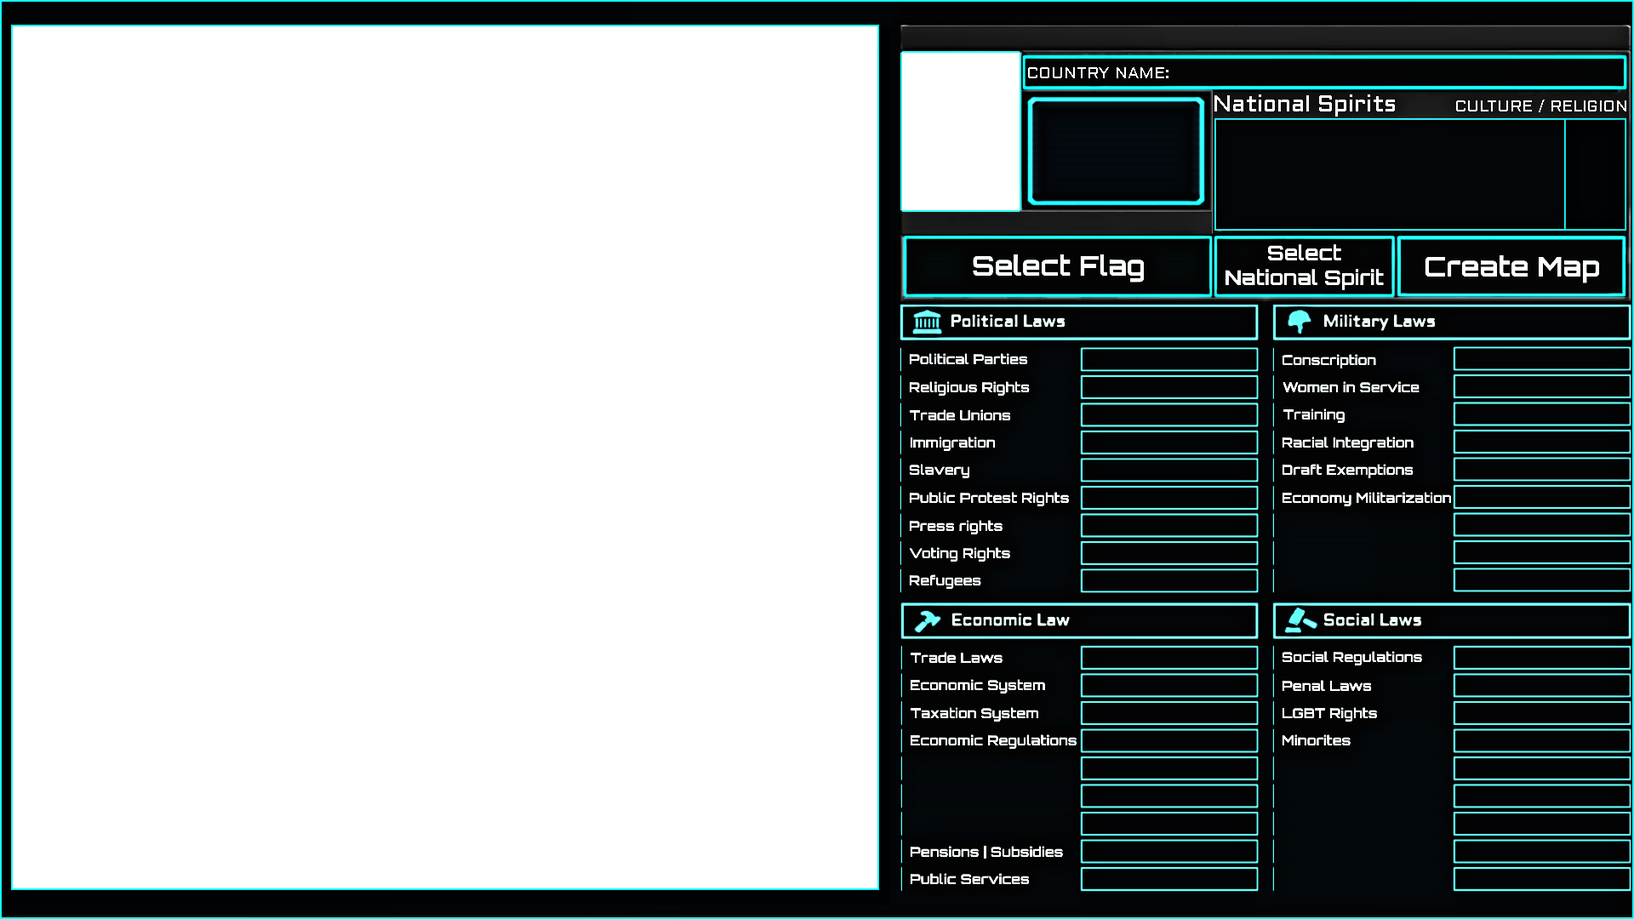
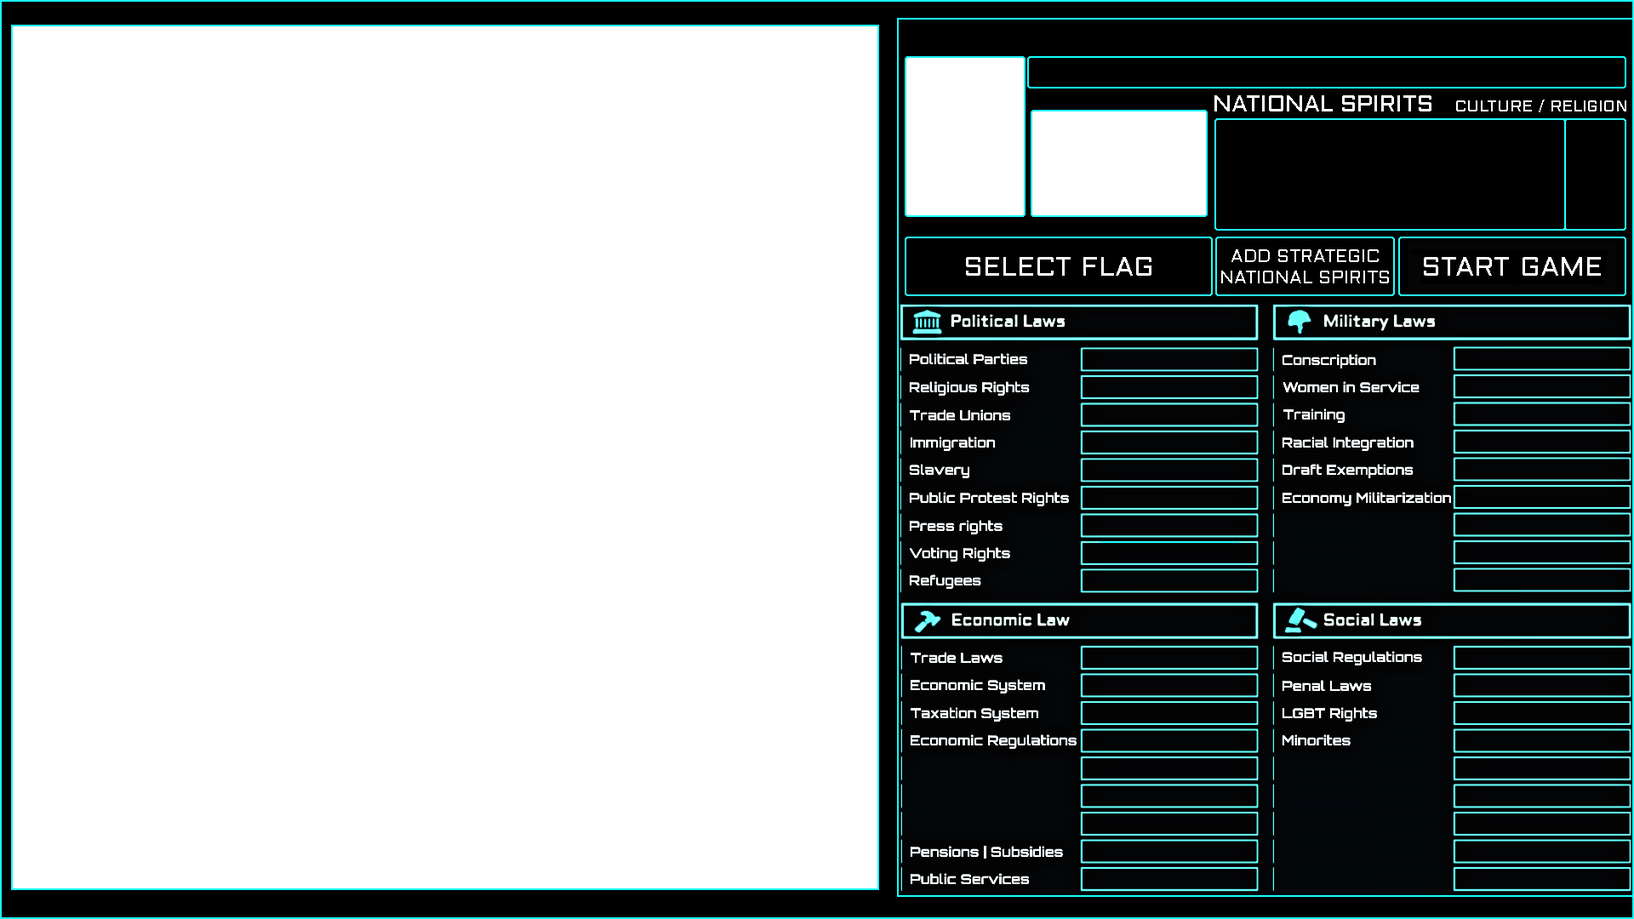
v0.02 	modified:   Main.py 	modified:   MenuManager.py 	modified:   __pycache__/MenuManager.cpython-311.pyc 	renamed:    gfx/Interface/country_selection/blocked_create_map_button.png -> gfx/Interface/country_selection/blocked_start_game_button.png 	modified:   gfx/Interface/country_selection/country

Changed region(s): [[0.5312, 0.0, 1.0, 0.3361]]

diff --git a/MenuManager.py b/MenuManager.py
@@ -469,9 +469,9 @@ class Country_Selection_Menu:
 	      
 		  generic_hover_over_button_menu_sound, generic_click_menu_sound, country_selection_background, country_info_display_background, political_compass_image, 
 		  
-		  ideologies_CRT_overlay_effect, hovered_create_map_button, hovered_select_national_spirit_button_image, hovered_select_flag_style_button_image, 
+		  ideologies_CRT_overlay_effect, hovered_start_game_button, hovered_select_national_spirit_button_image, hovered_select_flag_style_button_image, 
 		  
-		  hovered_laws_button_image, generic_leader, CRT_flag_overlay_effect, blocked_select_national_spirit_button, blocked_select_flag_style_button, blocked_create_map_button, 
+		  hovered_laws_button_image, generic_leader, CRT_flag_overlay_effect, blocked_select_national_spirit_button, blocked_select_flag_style_button, blocked_start_game_button, 
 		  
 		  blocked_full_right_side, blocked_all_laws):
 		
@@ -515,14 +515,14 @@ class Country_Selection_Menu:
 		self.country_info_display_background = pygame.transform.smoothscale_by(country_info_display_background, (self.factor_x, self.factor_y))
 		self.Country_Selection_Flag_Selection_Menu.country_info_display_background = self.country_info_display_background
 
-		self.hovered_create_map_button = pygame.transform.smoothscale_by(hovered_create_map_button, (self.factor_x, self.factor_y))
+		self.hovered_start_game_button = pygame.transform.smoothscale_by(hovered_start_game_button, (self.factor_x, self.factor_y))
 		self.hovered_select_national_spirit_button_image = pygame.transform.smoothscale_by(hovered_select_national_spirit_button_image, (self.factor_x, self.factor_y))
 		self.hovered_select_flag_style_button_image = pygame.transform.smoothscale_by(hovered_select_flag_style_button_image, (self.factor_x, self.factor_y))
 		self.hovered_laws_button_image = pygame.transform.smoothscale_by(hovered_laws_button_image, (self.factor_x, self.factor_y))
 
 		self.blocked_select_national_spirit_button = pygame.transform.smoothscale_by(blocked_select_national_spirit_button, (self.factor_x, self.factor_y))
 		self.blocked_select_flag_style_button = pygame.transform.smoothscale_by(blocked_select_flag_style_button, (self.factor_x, self.factor_y))
-		self.blocked_create_map_button = pygame.transform.smoothscale_by(blocked_create_map_button, (self.factor_x, self.factor_y))
+		self.blocked_start_game_button = pygame.transform.smoothscale_by(blocked_start_game_button, (self.factor_x, self.factor_y))
 
 		self.blocked_full_right_side = pygame.transform.smoothscale_by(blocked_full_right_side, (self.factor_x, self.factor_y))
 		self.blocked_all_laws = pygame.transform.smoothscale_by(blocked_all_laws, (self.factor_x, self.factor_y))
@@ -535,23 +535,29 @@ class Country_Selection_Menu:
 		political_compass_image_rect[1] += 31 * self.factor_y
 		self.Country_Selection_National_Spirits_Selection_Menu.background_position = [political_compass_image_rect[0]*0.65, political_compass_image_rect[1]*0.95]
 
-		#### MAIN BUTTONS
-		create_map_button_width = 270 * self.factor_x
-		create_map_button_height = 71 * self.factor_y
-		self.create_map_button_x_offset = 1641 * self.factor_x
-		self.create_map_button_y_offset = 277 * self.factor_y		
-		self.create_map_button = GenericUtilitys.Button(self.create_map_button_x_offset, self.create_map_button_y_offset, create_map_button_width, create_map_button_height)	
+		self.leader_portrait_position = (1057 * self.factor_x, 55 * self.factor_y)
+		self.country_flag_position = (1211 * self.factor_x, 129 * self.factor_y)
 
-		select_national_spirit_button_width = 213 * self.factor_x
-		select_national_spirit_button_height = 72 * self.factor_y
-		self.select_national_spirit_button_x_offset = 1426 * self.factor_x
-		self.select_national_spirit_button_y_offset = 277 * self.factor_y		
+		self.country_name_position = (1218 * self.factor_x, 78 * self.factor_y)
+		self.leader_name_position = (1074 * self.factor_x, 257 * self.factor_y)
+
+		#### MAIN BUTTONS
+		start_game_button_width = 268 * self.factor_x
+		start_game_button_height = 70 * self.factor_y
+		self.start_game_button_x_offset = 1643 * self.factor_x
+		self.start_game_button_y_offset = 278 * self.factor_y		
+		self.start_game_button = GenericUtilitys.Button(self.start_game_button_x_offset, self.start_game_button_y_offset, start_game_button_width, start_game_button_height)	
+
+		select_national_spirit_button_width = 211 * self.factor_x
+		select_national_spirit_button_height = 70 * self.factor_y
+		self.select_national_spirit_button_x_offset = 1428 * self.factor_x
+		self.select_national_spirit_button_y_offset = 278 * self.factor_y		
 		self.select_national_spirit_button = GenericUtilitys.Button(self.select_national_spirit_button_x_offset, self.select_national_spirit_button_y_offset, select_national_spirit_button_width, select_national_spirit_button_height)	
 
-		select_flag_style_button_width = 364 * self.factor_x
-		select_flag_style_button_height = 72 * self.factor_y
-		self.select_flag_style_button_x_offset = 1061 * self.factor_x
-		self.select_flag_style_button_y_offset = 277 * self.factor_y		
+		select_flag_style_button_width = 362 * self.factor_x
+		select_flag_style_button_height = 70 * self.factor_y
+		self.select_flag_style_button_x_offset = 1063 * self.factor_x
+		self.select_flag_style_button_y_offset = 278 * self.factor_y		
 		self.select_flag_style_button = GenericUtilitys.Button(self.select_flag_style_button_x_offset, self.select_flag_style_button_y_offset, select_flag_style_button_width, select_flag_style_button_height)					
 		####
 
@@ -693,14 +699,14 @@ class Country_Selection_Menu:
 
 		}	
 
-		self.country_name_scalable_font = GenericUtilitys.ScalableFont('Aldrich.ttf', int(26 * self.factor_y))
-		self.smaller_country_name_scalable_font = GenericUtilitys.ScalableFont('Aldrich.ttf', int(20 * self.factor_y))
-		self.tiny_country_name_scalable_font = GenericUtilitys.ScalableFont('Aldrich.ttf', int(16 * self.factor_y))
+		self.big_scalable_font = GenericUtilitys.ScalableFont('Aldrich.ttf', int(26 * self.factor_y))
+		self.medium_scalable_font = GenericUtilitys.ScalableFont('Aldrich.ttf', int(21 * self.factor_y))
+		self.small_scalable_font = GenericUtilitys.ScalableFont('Aldrich.ttf', int(16 * self.factor_y))
 
 
 	def get_button_by_interaction(self, mouse_rect):
-		if self.create_map_button.rect.colliderect(mouse_rect) and self.selected_flag_image != None:
-			return 'create_map'
+		if self.start_game_button.rect.colliderect(mouse_rect) and self.selected_flag_image != None:
+			return 'start_game'
 		elif self.select_national_spirit_button.rect.colliderect(mouse_rect) and self.selected_flag_image != None:
 			return 'select_national_spirit'
 		elif self.select_flag_style_button.rect.colliderect(mouse_rect) and self.clicked_ideology != None:
@@ -807,125 +813,122 @@ class Country_Selection_Menu:
 
 		screen.blit(self.political_compass_image, (15 * self.factor_x, 31 * self.factor_y))
 		
-
+		# Leader Portrait
 		if self.Country_Selection_Flag_Selection_Menu.selected_country != None and self.is_flag_selection_menu_open == False and self.selected_flag_image != None:
 			self.selected_leader_image = self.Country_Selection_Flag_Selection_Menu.selected_country.country_leader_image
-			screen.blit(self.selected_leader_image, (1051 * self.factor_x, 53 * self.factor_y))
+			screen.blit(self.selected_leader_image, self.leader_portrait_position)
 		else:
-			screen.blit(self.generic_leader_image, (1051 * self.factor_x, 53 * self.factor_y))
+			screen.blit(self.generic_leader_image, self.leader_portrait_position)
 		
-		screen.blit(self.country_selection_background, (0, 0))
-
-		if self.selected_flag_image != None: # Country Name | Leader Name | National Spirits | Flag
+		# Flag
+		if self.selected_flag_image != None:
 			if self.flag_size == None:
-				self.selected_flag_image = pygame.transform.scale(self.selected_flag_image, (192, 113))
+				self.selected_flag_image = pygame.transform.scale(self.selected_flag_image, (208, 126))
 				self.selected_flag_image = pygame.transform.smoothscale_by(self.selected_flag_image, (self.factor_x, self.factor_y))
 				self.flag_size = self.selected_flag_image.get_size()
-			
-			screen.blit(self.selected_flag_image, (1215 * self.factor_x, 122 * self.factor_y))
+			screen.blit(self.selected_flag_image, self.country_flag_position)	
+			screen.blit(self.CRT_flag_overlay_effect, self.country_flag_position)	
 		
-			if self.is_flag_selection_menu_open == False: # Country Name | Leader Name | National Spirits
-				if  self.Country_Selection_Flag_Selection_Menu.selected_country != None:
-					country_name_text = self.smaller_country_name_scalable_font.render(self.Country_Selection_Flag_Selection_Menu.selected_country.country_name, True, (255, 255, 255))
-					text_position = (1390 * self.factor_x, 78 * self.factor_y)
-					screen.blit(country_name_text, text_position)	
+		# BEHIND BACKGROUND
+		screen.blit(self.country_selection_background, (0, 0))
+		# IN FRONT OF BACKGROUND
 
-					leader_name = self.Country_Selection_Flag_Selection_Menu.selected_country.country_leader_name
+		# Country Name | Leader Name | National Spirits
+		if self.is_flag_selection_menu_open == False and self.selected_flag_image != None:
+			if  self.Country_Selection_Flag_Selection_Menu.selected_country != None:
+				country_name_text = self.medium_scalable_font.render(self.Country_Selection_Flag_Selection_Menu.selected_country.country_name, True, (255, 255, 255))
+				screen.blit(country_name_text, self.country_name_position)	
 
-					leader_name_text = self.country_name_scalable_font.render(leader_name, True, (255, 255, 255))
-					text_position = (1074 * self.factor_x, 252 * self.factor_y)
+				leader_name = self.Country_Selection_Flag_Selection_Menu.selected_country.country_leader_name
+				leader_name_text = self.big_scalable_font.render(leader_name, True, (255, 255, 255))
 
-					if leader_name_text.get_width() > 350 * self.factor_x:
-						leader_name_text = self.smaller_country_name_scalable_font.render(leader_name, True, (255, 255, 255))
-						text_position = (1074 * self.factor_x, 254 * self.factor_y)
-					
-					screen.blit(leader_name_text, text_position)
-
-					self.national_spirits_display_rects = []
-
-					x_index = 0
-					y_index = 0
+				if leader_name_text.get_width() > 350 * self.factor_x:
+					leader_name_text = self.medium_scalable_font.render(leader_name, True, (255, 255, 255))
+				
+				screen.blit(leader_name_text, self.leader_name_position)
 
 
 
-					national_spirits_position = [1440*self.factor_x, 141*self.factor_y]
-					
-					if len(self.Country_Selection_Flag_Selection_Menu.selected_country.country_national_spirits) > 10:
-						for national_spirit in self.Country_Selection_Flag_Selection_Menu.selected_country.country_national_spirits:
-							scaled_national_spirit_icon = pygame.transform.scale_by(national_spirit.national_spirit_icon, 0.5)
+				self.national_spirits_display_rects = []
+				x_index = 0
+				y_index = 0
 
-							x_offset = scaled_national_spirit_icon.get_width() * 1.23
-							y_offset = scaled_national_spirit_icon.get_height()
-							
-							screen.blit(scaled_national_spirit_icon, (national_spirits_position[0] + x_offset*x_index, national_spirits_position[1] + y_offset*y_index))
-							
-							national_spirit.rect = self.pygame.Rect(national_spirits_position[0] + x_offset*x_index, national_spirits_position[1] + y_offset*y_index,
-																scaled_national_spirit_icon.get_width(), scaled_national_spirit_icon.get_height())
-							self.national_spirits_display_rects.append([national_spirit.rect, national_spirit])	
+				national_spirits_position = [1440*self.factor_x, 141*self.factor_y]
+				
+				if len(self.Country_Selection_Flag_Selection_Menu.selected_country.country_national_spirits) > 10:
+					for national_spirit in self.Country_Selection_Flag_Selection_Menu.selected_country.country_national_spirits:
+						scaled_national_spirit_icon = pygame.transform.scale_by(national_spirit.national_spirit_icon, 0.5)
 
-							if x_index < 9:
-								x_index += 1
-							else:
-								x_index = 0
-								y_index += 1							
-					else:	
-						for national_spirit in self.Country_Selection_Flag_Selection_Menu.selected_country.country_national_spirits:	
-							x_offset = national_spirit.national_spirit_icon.get_width() * 1.27
-							y_offset = national_spirit.national_spirit_icon.get_height()					
-							
-							screen.blit(national_spirit.national_spirit_icon, (national_spirits_position[0] + x_offset*x_index, national_spirits_position[1] + y_offset*y_index))
-							
-							national_spirit.rect = self.pygame.Rect(national_spirits_position[0] + x_offset*x_index, national_spirits_position[1] + y_offset*y_index,
-																national_spirit.national_spirit_icon.get_width(), national_spirit.national_spirit_icon.get_height())
-							self.national_spirits_display_rects.append([national_spirit.rect, national_spirit])	
+						x_offset = scaled_national_spirit_icon.get_width() * 1.23
+						y_offset = scaled_national_spirit_icon.get_height()
+						
+						screen.blit(scaled_national_spirit_icon, (national_spirits_position[0] + x_offset*x_index, national_spirits_position[1] + y_offset*y_index))
+						
+						national_spirit.rect = self.pygame.Rect(national_spirits_position[0] + x_offset*x_index, national_spirits_position[1] + y_offset*y_index,
+															scaled_national_spirit_icon.get_width(), scaled_national_spirit_icon.get_height())
+						self.national_spirits_display_rects.append([national_spirit.rect, national_spirit])	
 
-							if x_index < 4:
-								x_index += 1
-							else:
-								x_index = 0
-								y_index += 1
+						if x_index < 9:
+							x_index += 1
+						else:
+							x_index = 0
+							y_index += 1							
+				else:	
+					for national_spirit in self.Country_Selection_Flag_Selection_Menu.selected_country.country_national_spirits:	
+						x_offset = national_spirit.national_spirit_icon.get_width() * 1.27
+						y_offset = national_spirit.national_spirit_icon.get_height()					
+						
+						screen.blit(national_spirit.national_spirit_icon, (national_spirits_position[0] + x_offset*x_index, national_spirits_position[1] + y_offset*y_index))
+						
+						national_spirit.rect = self.pygame.Rect(national_spirits_position[0] + x_offset*x_index, national_spirits_position[1] + y_offset*y_index,
+															national_spirit.national_spirit_icon.get_width(), national_spirit.national_spirit_icon.get_height())
+						self.national_spirits_display_rects.append([national_spirit.rect, national_spirit])	
+
+						if x_index < 4:
+							x_index += 1
+						else:
+							x_index = 0
+							y_index += 1
 
 
-					# CULTURE
-					culture_national_spirit = self.Country_Selection_Flag_Selection_Menu.selected_country.country_culture
-					screen.blit(culture_national_spirit.national_spirit_icon, (1843 * self.factor_x, 143 * self.factor_y))
-					
-					culture_national_spirit.rect = self.pygame.Rect(1843 * self.factor_x, 143 * self.factor_y,
-					       	culture_national_spirit.national_spirit_icon.get_width(), culture_national_spirit.national_spirit_icon.get_height())					
-					
-					self.national_spirits_display_rects.append([culture_national_spirit.rect, culture_national_spirit])						
-					
-					# RELIGION	
-					religion_national_spirit = self.Country_Selection_Flag_Selection_Menu.selected_country.country_religion
-					screen.blit(religion_national_spirit.national_spirit_icon, (1843 * self.factor_x, 143 * self.factor_y + religion_national_spirit.national_spirit_icon.get_height()))
-					
-					religion_national_spirit.rect = self.pygame.Rect(1843 * self.factor_x, 143 * self.factor_y + religion_national_spirit.national_spirit_icon.get_height(),
-					       	religion_national_spirit.national_spirit_icon.get_width(), religion_national_spirit.national_spirit_icon.get_height())					
-					
-					self.national_spirits_display_rects.append([religion_national_spirit.rect, religion_national_spirit])						
-											
+				# CULTURE
+				culture_national_spirit = self.Country_Selection_Flag_Selection_Menu.selected_country.country_culture
+				screen.blit(culture_national_spirit.national_spirit_icon, (1843 * self.factor_x, 143 * self.factor_y))
+				
+				culture_national_spirit.rect = self.pygame.Rect(1843 * self.factor_x, 143 * self.factor_y,
+						culture_national_spirit.national_spirit_icon.get_width(), culture_national_spirit.national_spirit_icon.get_height())					
+				
+				self.national_spirits_display_rects.append([culture_national_spirit.rect, culture_national_spirit])						
+				
+				# RELIGION	
+				religion_national_spirit = self.Country_Selection_Flag_Selection_Menu.selected_country.country_religion
+				screen.blit(religion_national_spirit.national_spirit_icon, (1843 * self.factor_x, 143 * self.factor_y + religion_national_spirit.national_spirit_icon.get_height()))
+				
+				religion_national_spirit.rect = self.pygame.Rect(1843 * self.factor_x, 143 * self.factor_y + religion_national_spirit.national_spirit_icon.get_height(),
+						religion_national_spirit.national_spirit_icon.get_width(), religion_national_spirit.national_spirit_icon.get_height())					
+				
+				self.national_spirits_display_rects.append([religion_national_spirit.rect, religion_national_spirit])						
+										
 
-				if self.hovered_national_spirit != None:
-					pygame.draw.rect(screen, (255,255,255), self.hovered_national_spirit.rect, 2)
+			if self.hovered_national_spirit != None:
+				pygame.draw.rect(screen, (255,255,255), self.hovered_national_spirit.rect, 2)
 
-					national_spirit_description_text = self.tiny_country_name_scalable_font.render(self.hovered_national_spirit.national_spirit_description, True, (255, 255, 255))
-					text_position = (1435 * self.factor_x, 280 * self.factor_y)
+				national_spirit_description_text = self.small_scalable_font.render(self.hovered_national_spirit.national_spirit_description, True, (255, 255, 255))
+				text_position = (1435 * self.factor_x, 280 * self.factor_y)
 
-					pygame.draw.rect(screen, (6,15,20), (1430 * self.factor_x, 275 * self.factor_y, 485 * self.factor_x, national_spirit_description_text.get_height() + 10 * self.factor_y))
-					pygame.draw.rect(screen, (43,219,211), (1430 * self.factor_x, 275 * self.factor_y, 485 * self.factor_x, national_spirit_description_text.get_height() + 10 * self.factor_y), 2)
+				pygame.draw.rect(screen, (6,15,20), (1430 * self.factor_x, 275 * self.factor_y, 485 * self.factor_x, national_spirit_description_text.get_height() + 10 * self.factor_y))
+				pygame.draw.rect(screen, (43,219,211), (1430 * self.factor_x, 275 * self.factor_y, 485 * self.factor_x, national_spirit_description_text.get_height() + 10 * self.factor_y), 2)
 
-					screen.blit(national_spirit_description_text, text_position)						
-
-		screen.blit(self.CRT_flag_overlay_effect, (1201 * self.factor_x, 107 * self.factor_y))	
+				screen.blit(national_spirit_description_text, text_position)							
 
 		if self.clicked_ideology == None: # Blocked Buttons
 			screen.blit(self.blocked_select_flag_style_button, (self.select_flag_style_button_x_offset, self.select_flag_style_button_y_offset))
 			screen.blit(self.blocked_select_national_spirit_button, (self.select_national_spirit_button_x_offset, self.select_national_spirit_button_y_offset))
-			screen.blit(self.blocked_create_map_button, (self.create_map_button_x_offset, self.create_map_button_y_offset))				
+			screen.blit(self.blocked_start_game_button, (self.start_game_button_x_offset, self.start_game_button_y_offset))				
 			screen.blit(self.blocked_full_right_side, (self.screen_width - self.blocked_full_right_side.get_width(), 0))		
 		elif self.selected_flag_image == None:
 			screen.blit(self.blocked_select_national_spirit_button, (self.select_national_spirit_button_x_offset, self.select_national_spirit_button_y_offset))
-			screen.blit(self.blocked_create_map_button, (self.create_map_button_x_offset, self.create_map_button_y_offset))
+			screen.blit(self.blocked_start_game_button, (self.start_game_button_x_offset, self.start_game_button_y_offset))
 			screen.blit(self.blocked_all_laws, (self.screen_width - self.blocked_all_laws.get_width(), self.screen_height - self.blocked_all_laws.get_height()))
 			self.national_spirits_display_rects = []
 				
@@ -943,8 +946,8 @@ class Country_Selection_Menu:
 
 		if self.hovered_button != 'none': # Buttons Selection 
 			
-			if self.hovered_button == 'create_map':
-				screen.blit(self.hovered_create_map_button, (self.create_map_button_x_offset, self.create_map_button_y_offset))
+			if self.hovered_button == 'start_game':
+				screen.blit(self.hovered_start_game_button, (self.start_game_button_x_offset, self.start_game_button_y_offset))
 			
 			elif self.hovered_button == 'select_national_spirit':
 				screen.blit(self.hovered_select_national_spirit_button_image, (self.select_national_spirit_button_x_offset, self.select_national_spirit_button_y_offset))

diff --git a/Main.py b/Main.py
@@ -141,7 +141,7 @@ class Main:
 		self.national_spirits_background = self.pygame.image.load(os.path.join(self.country_selection_folder, 'national_spirits_background.png')).convert_alpha()
 		self.national_spirits_background = pygame.transform.smoothscale_by(self.national_spirits_background, (self.factor_x, self.factor_y))
 
-		self.hovered_create_map_button = self.pygame.image.load(os.path.join(self.country_selection_folder, 'hovered_create_map_button.png')).convert_alpha()
+		self.hovered_start_game_button = self.pygame.image.load(os.path.join(self.country_selection_folder, 'hovered_start_game_button.png')).convert_alpha()
 		self.hovered_select_flag_style_button_image = self.pygame.image.load(os.path.join(self.country_selection_folder, 'hovered_select_flag_style_button.png')).convert_alpha()
 		self.hovered_select_national_spirit_button_image = self.pygame.image.load(os.path.join(self.country_selection_folder, 'hovered_select_national_spirit_button.png')).convert_alpha()
 		
@@ -151,7 +151,7 @@ class Main:
 		self.blocked_all_laws = self.pygame.image.load(os.path.join(self.country_selection_folder, 'blocked_all_laws.png')).convert_alpha()
 		self.blocked_select_national_spirit_button = self.pygame.image.load(os.path.join(self.country_selection_folder, 'blocked_select_national_spirit_button.png')).convert_alpha()
 		self.blocked_select_flag_style_button = self.pygame.image.load(os.path.join(self.country_selection_folder, 'blocked_select_flag_style_button.png')).convert_alpha()
-		self.blocked_create_map_button = self.pygame.image.load(os.path.join(self.country_selection_folder, 'blocked_create_map_button.png')).convert_alpha()
+		self.blocked_start_game_button = self.pygame.image.load(os.path.join(self.country_selection_folder, 'blocked_start_game_button.png')).convert_alpha()
 
 
 		self.ideas_folder = os.path.join(self.interface_folder, 'ideas')
@@ -682,9 +682,9 @@ your shoulders.
 		self.Country_Selection_Menu = MenuManager.Country_Selection_Menu(self.Country_Selection_Flag_Selection_Menu, self.Country_Selection_National_Spirits_Selection_Menu, 
 								 	self.screen_width, self.screen_height, self.pygame, self.Sounds_Manager.generic_hover_over_button_menu_sound, self.Sounds_Manager.generic_click_menu_sound, 
 									self.country_selection_background, self.country_info_display_background, self.political_compass_image, self.ideologies_CRT_overlay_effect,
-									self.hovered_create_map_button, self.hovered_select_national_spirit_button_image, self.hovered_select_flag_style_button_image, 
+									self.hovered_start_game_button, self.hovered_select_national_spirit_button_image, self.hovered_select_flag_style_button_image, 
 									self.hovered_laws_button_image, self.generic_leader, self.CRT_flag_overlay_effect, self.blocked_select_national_spirit_button, 
-									self.blocked_select_flag_style_button, self.blocked_create_map_button, self.blocked_full_right_side, self.blocked_all_laws)
+									self.blocked_select_flag_style_button, self.blocked_start_game_button, self.blocked_full_right_side, self.blocked_all_laws)
 		
 		self.Screen_Manager = ScreenManager.Screen(self.pygame, self.display, self.screen, self.surface_alfa, self.player_country, self.Main_Menu, self.Country_Selection_Menu,
 											self.Scenario_Selection_Menu, self.ESC_Menu, self.main_menu_backgound, 
@@ -922,7 +922,7 @@ your shoulders.
 							if self.Country_Selection_Menu.is_flag_selection_menu_open == False:
 								self.clicked_button = self.Country_Selection_Menu.get_clicked_button(self.mouse_rect)
 								if self.clicked_button != 'none' and self.clicked_button != None:
-									if self.clicked_button == 'create_map':
+									if self.clicked_button == 'start_game':
 										self.is_in_country_selection_screen = False
 										self.is_in_map_creation_screen = True
 										self.is_in_esc_menu = False
